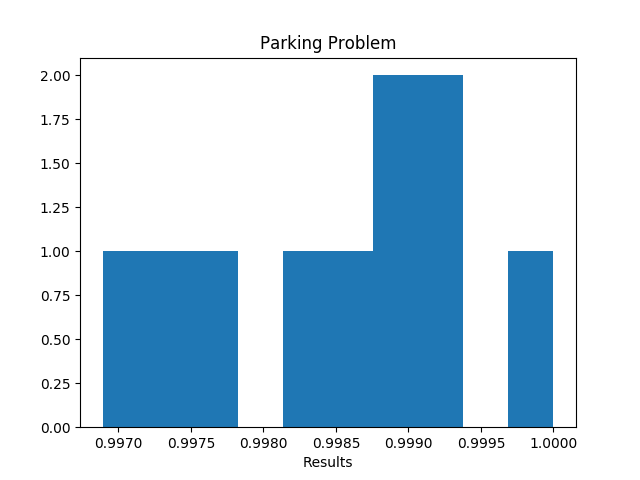
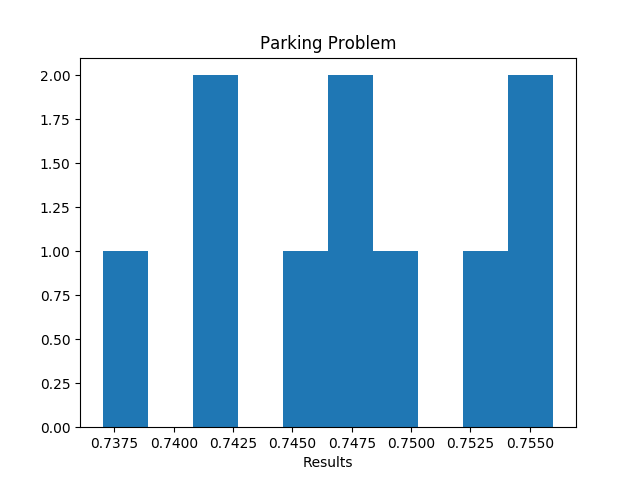
some housekeeping - renaming of files

Changed region(s): [[0.125, 0.1562, 0.9062, 0.9375]]

diff --git a/simulations/parking/parking_03.py b/simulations/parking/parking_03.py
@@ -1,4 +1,5 @@
 import sys
+import itertools
 
 import argparse
 
@@ -7,21 +8,31 @@ import matplotlib.pyplot as plt
 
 
 def parking_problem(length):
-    spots = []
+    indices = [i for i in range(length - 1)]
+    spots   = [0] * length
+    count   = 0
 
-    def find_spots(start, end):
-        spot = np.random.uniform(start, end - 1.0)
-        spots.append(spot)
+    while spots_available(spots) and indices:
+        spot = np.random.choice(indices, 1)[0]
+        if spots[spot] == 0 and spots[spot + 1] == 0:
+            spots[spot]     = 1
+            spots[spot + 1] = 1
+            indices.remove(spot)
+            if spot + 1 in indices:
+                indices.remove(spot + 1)
 
-        if spot - start >= 1.0:
-            find_spots(start, spot)
+        count += 1
 
-        if end - spot >= 2.0:
-            find_spots(spot + 1.0, end)
+        if count == 10000000:
+            break
 
-    find_spots(0, length)
+    return float(spots.count(1)) / float(length)
 
-    return len(spots) / float(length)
+
+
+def spots_available(spots):
+    c = [(x[0], len(list(x[1]))) for x in itertools.groupby(spots) if x[0] == 0]
+    return max(c, key = lambda x: x[1])[1] > 1 if len(c) > 0 else False
 
 
 
@@ -29,16 +40,16 @@ def simulation(iterations, length):
     results = []
 
     print()
-    print('    Parking Problem: running {} simulations...'.format(iterations))
+    print('    Parking Problem - Discrete Version: running {} simulations...'.format(iterations))
     print()
 
     for i in range(iterations):
         results.append(parking_problem(length))
-        print('                   : iteration {:5d}'.format(i + 1), end = '\r')
+        print('                                      : iteration {:5d}'.format(i + 1), end = '\r')
 
     print()
     print()
-    print('                   : simulations completed...')
+    print('                                      : simulations completed...')
     print()
 
     return results
@@ -48,12 +59,12 @@ def simulation(iterations, length):
 def print_results(results):
     print()
     print()
-    print('    Parking Problem: results')
+    print('    Parking Problem - Discrete Version: results')
     print()
-    print('       Distribution:')
+    print('                          Distribution:')
     print()
-    print('               mean: {:10.8f}'.format(np.mean(results)))
-    print(' standard deviation: {:10.8f}'.format(np.std(results)))
+    print('                                  mean: {:10.8f}'.format(np.mean(results)))
+    print('                    standard deviation: {:10.8f}'.format(np.std(results)))
     print()
 
 
@@ -61,9 +72,9 @@ def print_results(results):
 def plot_results(results):
     plt.clf()
     plt.hist(results)
-    plt.title('Parking Problem')
+    plt.title('Parking Problem - Discrete Version')
     plt.xlabel('Results')
-    plt.savefig('./images/parking/parking_{}.png'.format(len(results)), format = 'png')
+    plt.savefig('./images/parking/parking_discrete_{}.png'.format(len(results)), format = 'png')
     plt.close()
 
 
@@ -81,7 +92,7 @@ def main(args):
 
 
 if __name__ == "__main__":
-    parser = argparse.ArgumentParser(description = "A script that estimates the jamming limit for Renyi's Parking Problem")
+    parser = argparse.ArgumentParser(description = "A script that estimates the jamming limit for Renyi's Parking Problem - Discrete Version")
     parser.add_argument("-n", "--iterations",  dest = "iterations",  help = "the number of iterations to perform", required = True)
     parser.add_argument("-l", "--length", dest = "length", help = "the length of the interval", required = True)
     main(parser.parse_args())

diff --git a/simulations/parking/parking_02.py b/simulations/parking/parking_02.py
@@ -3,47 +3,23 @@ import sys
 import argparse
 
 import numpy as np
-
-
-
-def spots_available(spots, length):
-    if spots[0] >= 1.0:
-        return True
-
-    for i in range(len(spots) - 1):
-        if spots[i + 1] - spots[i] >= 2.0:
-            return True
-
-    return length - spots[-1] >= 2.0
-
-
-
-def spot_found(spot, spots, length):
-    if 0 <= spot <= spots[0] - 1.0:
-        return True
-
-    for i in range(len(spots) - 1):
-        if spots[i] + 1.0 <= spot <= spots[i + 1] - 1.0:
-            return True
-
-    return spots[-1] + 1.0 <= spot <= length - 1.0
-
-
-
-def get_parking(length):
-    return np.random.uniform(0, length - 1.0)
-
+import matplotlib.pyplot as plt
 
 
 def parking_problem(length):
-    spots  = [get_parking(length)]
+    spots = []
 
-    while spots_available(spots, length):
-        spot = get_parking(length)
+    def find_spots(start, end):
+        spot = np.random.uniform(start, end)
+        spots.append(spot)
 
-        if spot_found(spot, spots, length):
-            spots.append(spot)
-            spots.sort()
+        if start <= spot - 1.0:
+            find_spots(start, spot - 1.0)
+
+        if spot + 1.0 <= end:
+            find_spots(spot + 1.0, end)
+
+    find_spots(0, length)
 
     return len(spots) / float(length)
 
@@ -76,9 +52,19 @@ def print_results(results):
     print()
     print('       Distribution:')
     print()
-    print('               mean: %0.10g' % np.mean(results))
-    print(' standard deviation: %0.10g' % np.std(results))
+    print('               mean: {:10.8f}'.format(np.mean(results)))
+    print(' standard deviation: {:10.8f}'.format(np.std(results)))
     print()
+
+
+
+def plot_results(results):
+    plt.clf()
+    plt.hist(results)
+    plt.title('Parking Problem')
+    plt.xlabel('Results')
+    plt.savefig('./images/parking/parking_{}.png'.format(len(results)), format = 'png')
+    plt.close()
 
 
 
@@ -86,7 +72,11 @@ def main(args):
     iterations = int(args.iterations)
     length     = int(args.length)
 
-    print_results(simulation(iterations, length))
+    results    = simulation(iterations, length)
+
+    print_results(results)
+    plot_results(results)
+
 
 
 

diff --git a/simulations/parking/parking_00.py b/simulations/parking/parking_00.py
@@ -7,51 +7,52 @@ import numpy as np
 
 
 def spots_available(spots, length):
-    if 0 <= spots[0] - 1.0:
+    if 0 <= spots[0, 0] - 1.0:
         return True
 
-    for i in range(len(spots) - 1):
-        if spots[i] + 1.0 <= spots[i + 1] - 1.0:
+    for i in range(spots.shape[0] - 1):
+        if spots[i, 1] <= spots[i + 1, 0] - 1.0:
             return True
 
-    return spots[-1] + 1 <= length - 1.0
+    return spots[-1, 1] <= length - 1.0
 
 
 
 def spot_found(spot, spots, length):
-    if 0 <= spot <= spots[0] - 1.0:
+    if 0 <= spot[0, 0] and spot[0, 1] <= spots[0, 0]:
         return True
 
-    for i in range(len(spots) - 1):
-        if spots[i] + 1.0 <= spot <= spots[i + 1] - 1.0:
+    for i in range(spots.shape[0] - 1):
+        if spots[i, 1] <= spot[0, 0] and spot[0, 1] <= spots[i + 1, 0]:
             return True
 
-    return spots[-1] + 1.0 <= spot <= length - 1.0
+    return spots[-1, 1] <= spot[0, 0] and spot[0, 1] <= length
 
 
 
 def get_parking(length):
-    return np.random.uniform(0, length)
+    spot = np.random.uniform(0, length)
+    return np.array([[spot, spot + 1.0]])
 
 
 
 def parking_problem(length):
-    spots = [get_parking(length)]
+    spots = get_parking(length)
     count = 0
 
     while spots_available(spots, length):
         spot = get_parking(length)
 
         if spot_found(spot, spots, length):
-            spots.append(spot)
-            spots.sort()
+            spots = np.concatenate((spots, spot))
+            spots = spots[spots[:, 0].argsort()]
 
         count += 1
 
         if count == 10000000:
             break
 
-    return len(spots) / float(length)
+    return spots.shape[0] / float(length)
 
 
 
